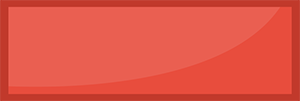
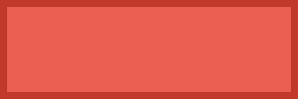
Changed the ButtonRed image
Changed how we save answers

Changed region(s): [[0.9664, 0.0909, 0.9966, 0.9394], [0.0, 0.0909, 0.0302, 0.9394]]

diff --git a/Assets/Scripts/EndScenario.cs b/Assets/Scripts/EndScenario.cs
@@ -3,77 +3,68 @@ using System.Collections;
 using UnityEngine.UI;
 
 public class EndScenario : MonoBehaviour {
+
     public int numberOfQuestions = 14;
     public int threeStarsMin = 12;
     public int twoStarsMin = 9;
     public int oneStarMin = 7;
-    string timesAnswered;
-    string timesCorrect;
-    string timesWrong;
+
     public Text currentText;
 
-    public GameObject star1;
-    public GameObject star2;
-    public GameObject star3;
-    
+    public bool scenario_1;
+    public bool scenario_2;
+
+    private Scenario scenario;
+
     // Use this for initialization
     void Start () {
-        
-        if(currentText == null)
+
+        if (scenario_1)
+        {
+            scenario = Data.scenario_1;
+        }
+        else if (scenario_2)
+        {
+            scenario = Data.scenario_2;
+        }
+        else
+        {
+            Debug.Log("Stars script: You forgot to set the ID of the scenario.");
+        }
+
+
+        if (currentText == null)
         {
             currentText = GameObject.Find("ScoreText").GetComponent<Text>();
         }
-
-        if(star1 == null)
-        {
-            star1 = GameObject.Find("Star1");
-        }
-        if (star2 == null)
-        {
-            star2 = GameObject.Find("Star2");
-        }
-        if (star3 == null)
-        {
-            star3 = GameObject.Find("Star3");
-        }
-
-        star1.SetActive(false);
-        star2.SetActive(false);
-        star3.SetActive(false);
     }
 	
 	// Update is called once per frame
 	void Update () {
-        timesAnswered = Data.timesAnswered.ToString();
-        timesCorrect = Data.timesCorrect.ToString();
-        timesWrong = Data.wrongAnswers.Count.ToString();
 
-        currentText.text = "You used "+ timesAnswered + " attempts.\nYou got " + timesCorrect + " correct answers.\n You got " + timesWrong + " wrong answers.";
 
-        if (Data.timesAnswered >= threeStarsMin)
+        currentText.text = "You used "+ scenario.timesAnswered.ToString() + " attempts.\nYou got " + scenario.timesCorrect.ToString() + " correct answers.\n You got " + scenario.wrongAnswers.Count.ToString() + " wrong answers.";
+
+        if (scenario.timesCorrect >= threeStarsMin)
         {
             // Show 3 stars
-            star1.SetActive(true);
-            star2.SetActive(true);
-            star3.SetActive(true);
+            scenario.Stars = 3;
+
         }
-        else if (Data.timesAnswered >= twoStarsMin)
+        else if (scenario.timesCorrect >= twoStarsMin)
         {
             // Show 2 stars
-            star1.SetActive(true);
-            star2.SetActive(true);
+            scenario.Stars = 2;
+
         }
-        else if(Data.timesAnswered >= oneStarMin)
+        else if(scenario.timesCorrect >= oneStarMin)
         {
             // Show 1 star  
-            Debug.Log("Star 1 is active!");
-            star1.SetActive(true);         
+            scenario.Stars = 1;
         }
         else
         {
-            star1.SetActive(false);
-            star2.SetActive(false);
-            star3.SetActive(false);
+            scenario.Stars = 0;
         }
 
         

diff --git a/Assets/Scripts/Stars.cs b/Assets/Scripts/Stars.cs
@@ -1,0 +1,62 @@
+using UnityEngine;
+using System.Collections;
+
+public class Stars : MonoBehaviour {
+
+    public GameObject star1;
+    public GameObject star2;
+    public GameObject star3;
+
+    public bool scenario_1 = false;
+    public bool scenario_2 = false;
+
+    private Scenario s;
+
+	// Use this for initialization
+	void Start () {
+        s = new Scenario();
+        if (scenario_1)
+        {
+            s = Data.scenario_1;
+        } else if (scenario_2)
+        {
+            s = Data.scenario_2;
+        }
+        else
+        {
+            Debug.Log("Stars script: You forgot to select scenario.");
+        }
+    }
+
+    // Update is called once per frame
+    void Update () {
+        if (s.Stars == 3)
+        {
+            // Show 3 stars
+            star1.SetActive(true);
+            star2.SetActive(true);
+            star3.SetActive(true);
+        }
+        else if (s.Stars == 2)
+        {
+            // Show 2 stars
+            star1.SetActive(true);
+            star2.SetActive(true);
+            star3.SetActive(false);
+        }
+        else if (s.Stars == 1)
+        {
+            // Show 1 star  
+            star1.SetActive(true);
+            star2.SetActive(false);
+            star3.SetActive(false);
+        }
+        else
+        {
+            // Show no star
+            star1.SetActive(false);
+            star2.SetActive(false);
+            star3.SetActive(false);
+        }
+    }
+}

diff --git a/Assets/Scripts/AnswerButton.cs b/Assets/Scripts/AnswerButton.cs
@@ -22,11 +22,11 @@ public class AnswerButton : MonoBehaviour {
             correctAnswerWindow.SetActive(true);
             windowActive = true;
             // Increment times answered and correct
-            Data.timesAnswered += 1;
-            Data.timesCorrect += 1;
+            //Data.timesAnswered += 1;
+            //Data.timesCorrect += 1;
             
             // Add correct answer to the List of correct answers
-            Data.correctAnswers.Add(question.text);
+            //Data.correctAnswers.Add(question.text);
         }
     }
 
@@ -38,10 +38,10 @@ public class AnswerButton : MonoBehaviour {
             wrongAnswerWindow.SetActive(true);
             windowActive = true;
             // Increment times answered
-            Data.timesAnswered += 1;
+            //Data.timesAnswered += 1;
 
             // Add wrong answer to List of wrong answers
-            Data.wrongAnswers.Add(question.text);
+            //Data.wrongAnswers.Add(question.text);
         }
     }
 

diff --git a/Assets/Scripts/Data.cs b/Assets/Scripts/Data.cs
@@ -4,21 +4,6 @@ using System.Collections.Generic;
 
 public class Data : MonoBehaviour {
 
-    public static int timesAnswered { get; internal set; }
-    public static int timesCorrect { get; internal set; }
-    public static int timesPressed { get; internal set; }
-
-
-    public static List<string> wrongAnswers = new List<string>();
-    public static List<string> correctAnswers = new List<string>();
-
-    // Use this for initialization
-    void Start () {
-	
-	}
-	
-	// Update is called once per frame
-	void Update () {
-	
-	}
+    public static Scenario scenario_1 = new Scenario();
+    public static Scenario scenario_2 = new Scenario();
 }

diff --git a/Assets/Scripts/Data Models/Scenario.cs b/Assets/Scripts/Data Models/Scenario.cs
@@ -1,0 +1,20 @@
+using UnityEngine;
+using System.Collections;
+using System.Collections.Generic;
+
+public class Scenario {
+
+    public int timesAnswered { get; internal set; }
+    public int timesCorrect { get; internal set; }
+    public int timesPressed { get; internal set; }
+
+    [HideInInspector]
+    public List<string> wrongAnswers = new List<string>();
+
+    [HideInInspector]
+    public List<string> correctAnswers = new List<string>();
+
+    public int Stars { get; set; }
+
+    public int NumberOfQuestions { get; set; }
+}
